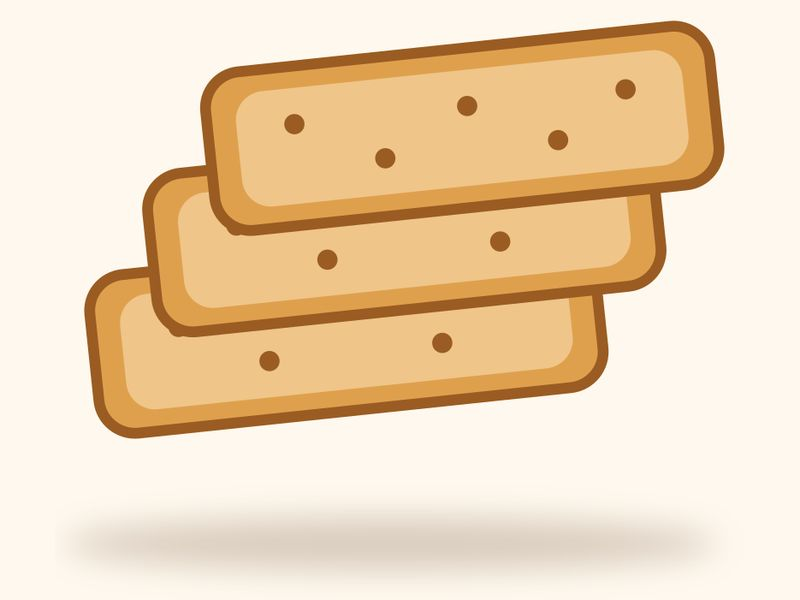
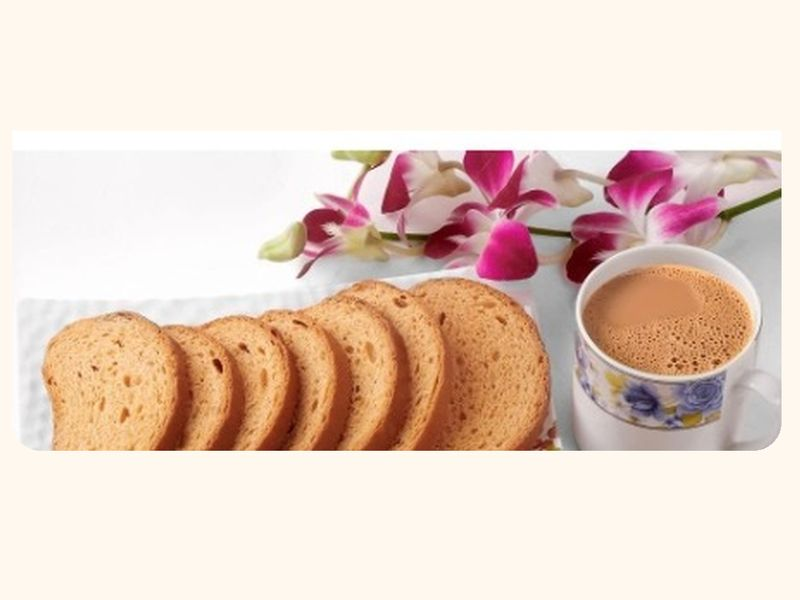
Add the other 4 product images (fresh cream cake, donut, family bread, elaichi rusk)
Claude-Session: https://claude.ai/code/session_014DFkP9UwZqFjJHk8D63ftY

diff --git a/index.html b/index.html
@@ -375,17 +375,17 @@ var PRODUCTS = [
   {id:"p10", cat:"rusk", name:"ஏலக்காய் ரஸ்க்", en:"Elaichi rusk", unit:"1 கிலோ", unitEn:"1 kg", price:110, mrp:147, img:"img/products/p10.jpg"},
   {id:"p11", cat:"rusk", name:"லூஸ் ரஸ்க்", en:"Loose bakery rusk", unit:"1 கிலோ", unitEn:"1 kg", price:150, mrp:200, img:"img/products/p11.jpg"},
   {id:"p12", cat:"rusk", name:"மில்க் ரஸ்க்", en:"Milk rusk", unit:"200 கி", unitEn:"200 g", price:30, mrp:40, img:"img/products/p12.jpg"},
-  {id:"p13", cat:"rusk", name:"நெய் ரஸ்க்", en:"Ghee rusk", unit:"200 கி", unitEn:"200 g", price:45, mrp:60, img:null},
+  {id:"p13", cat:"rusk", name:"நெய் ரஸ்க்", en:"Ghee rusk", unit:"200 கி", unitEn:"200 g", price:45, mrp:60, img:"img/products/p13.jpg"},
   {id:"p14", cat:"rusk", name:"ஸ்வீட் டோஸ்ட்", en:"Sweet toast", unit:"200 கி", unitEn:"200 g", price:30, mrp:40, img:"img/products/p14.jpg"},
   {id:"p15", cat:"cake", name:"டீ கேக் (துண்டு)", en:"Tea cake (piece)", unit:"1 எண்ணம்", unitEn:"1 pc", price:8, mrp:10, img:null},
   {id:"p16", cat:"cake", name:"டீ கேக் / மடீரா கேக்", en:"Tea / Madeira cake", unit:"1 கிலோ", unitEn:"1 kg", price:338, mrp:450, img:"img/products/p16.jpg"},
   {id:"p17", cat:"cake", name:"பிளம் கேக்", en:"Plum cake", unit:"1 கிலோ", unitEn:"1 kg", price:450, mrp:600, img:"img/products/p17.jpg"},
-  {id:"p18", cat:"cake", name:"ஃப்ரெஷ் கிரீம் கேக்", en:"Fresh cream cake", unit:"1 கிலோ", unitEn:"1 kg", price:300, mrp:400, img:null},
+  {id:"p18", cat:"cake", name:"ஃப்ரெஷ் கிரீம் கேக்", en:"Fresh cream cake", unit:"1 கிலோ", unitEn:"1 kg", price:300, mrp:400, img:"img/products/p18.jpg"},
   {id:"p19", cat:"cake", name:"கப் கேக்", en:"Cup cake", unit:"170 கி", unitEn:"170 g", price:36, mrp:48, img:"img/products/p19.jpg"},
   {id:"p20", cat:"cake", name:"மஃபின்", en:"Muffin", unit:"1 எண்ணம்", unitEn:"1 pc", price:22, mrp:30, img:"img/products/p20.jpg"},
   {id:"p21", cat:"cake", name:"ஹனி கேக்", en:"Honey cake", unit:"1 எண்ணம்", unitEn:"1 pc", price:15, mrp:20, img:"img/products/p21.jpg"},
   {id:"p22", cat:"cake", name:"ஸ்விஸ் ரோல்", en:"Swiss roll", unit:"1 எண்ணம்", unitEn:"1 pc", price:11, mrp:15, img:"img/products/p22.jpg"},
-  {id:"p23", cat:"cake", name:"டோனட்", en:"Donut", unit:"1 எண்ணம்", unitEn:"1 pc", price:30, mrp:40, img:null},
+  {id:"p23", cat:"cake", name:"டோனட்", en:"Donut", unit:"1 எண்ணம்", unitEn:"1 pc", price:30, mrp:40, img:"img/products/p23.jpg"},
   {id:"p24", cat:"puff", name:"வெஜ் பஃப்ஸ்", en:"Veg puff", unit:"1 எண்ணம்", unitEn:"1 pc", price:21, mrp:28, img:null},
   {id:"p25", cat:"puff", name:"முட்டை பஃப்ஸ்", en:"Egg puff", unit:"1 எண்ணம்", unitEn:"1 pc", price:26, mrp:35, img:null},
   {id:"p26", cat:"puff", name:"காளான் பஃப்ஸ்", en:"Mushroom puff", unit:"1 எண்ணம்", unitEn:"1 pc", price:33, mrp:44, img:null},
